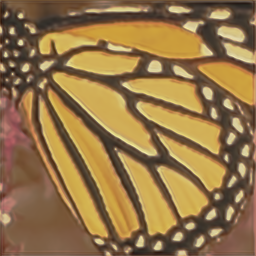
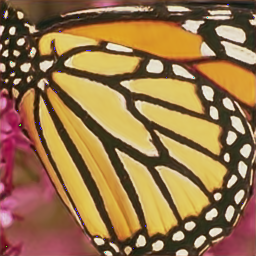
hurrah

diff --git a/main.py b/main.py
@@ -17,32 +17,27 @@ from layers import SelfAttention
 from attention_layer import ChannelAttention, SpatialAttention, Attention
 from util import Resnet_block
 from resnet import res_net_block
-from subpixel import SubpixelConv2D
 def model(inputShape):
     input_img = Input(shape=(inputShape))
     x = Conv_2D(256, 3, strides = 1)(input_img)
     x = Conv_2D(256, 5, strides = 1)(x)
     x = Attention(256)(x)
-    #x = SubpixelConv2D(upsampling_factor = 2)(x)
     x = Conv_2D(128, 3, strides = 1)(x)
     x = Conv_2D(128, 5, strides = 1)(x)
     x = Attention(128)(x)
-    #x = SubpixelConv2D(upsampling_factor = 2)(x)
     x = Conv_2D(64, 3, strides = 1)(x)
     x = Conv_2D(64, 5, strides = 1)(x)
     x = Attention(64)(x)
     x = Conv_2D(32, 3, strides = 1)(x)
     x = Conv_2D(32, 5, strides = 1)(x)
+    x = Attention(32)(x)
     x = Conv_2D(16, 3, strides = 1)(x)
     x = Conv_2D(16, 5, strides = 1)(x)
-    #num_res_net_blocks = 10
-    #for i in range(num_res_net_blocks):
-    #    x = res_net_block(x, 128, 5)
+    x = Attention(16)(x)
     x = Conv_2D(8, 3, strides = 1)(x)
     x = Conv_2D(3, 3, strides = 1)(x)
     model = Model(input_img, x)
     return model
-
 
 
 
@@ -68,17 +63,17 @@ def main():
     nn.compile(optimizer = optimizer, loss = 'mse')
     
     es = EarlyStopping(monitor = 'loss' , mode = 'min', verbose = 1, 
-            patience = 50) ## early stopping to prevent overfitting
+            patience = 70) ## early stopping to prevent overfitting
 
     history = nn.fit(lr_image, hr_image,
-                epochs = 1000,
+                epochs = 2000,
                 batch_size = batchSize, callbacks = [es])
 
     """ reconstrucing high-resolution image from the low-resolution image """
     pred = nn.predict(lr_image)
     pred = np.uint8((pred + 1)* 255/2)
     pred = Image.fromarray(pred[0])
-    pred.save("reconstructed_HR_image.png")
+    pred.save("re.png")
 
 if __name__ == "__main__":
     main()
